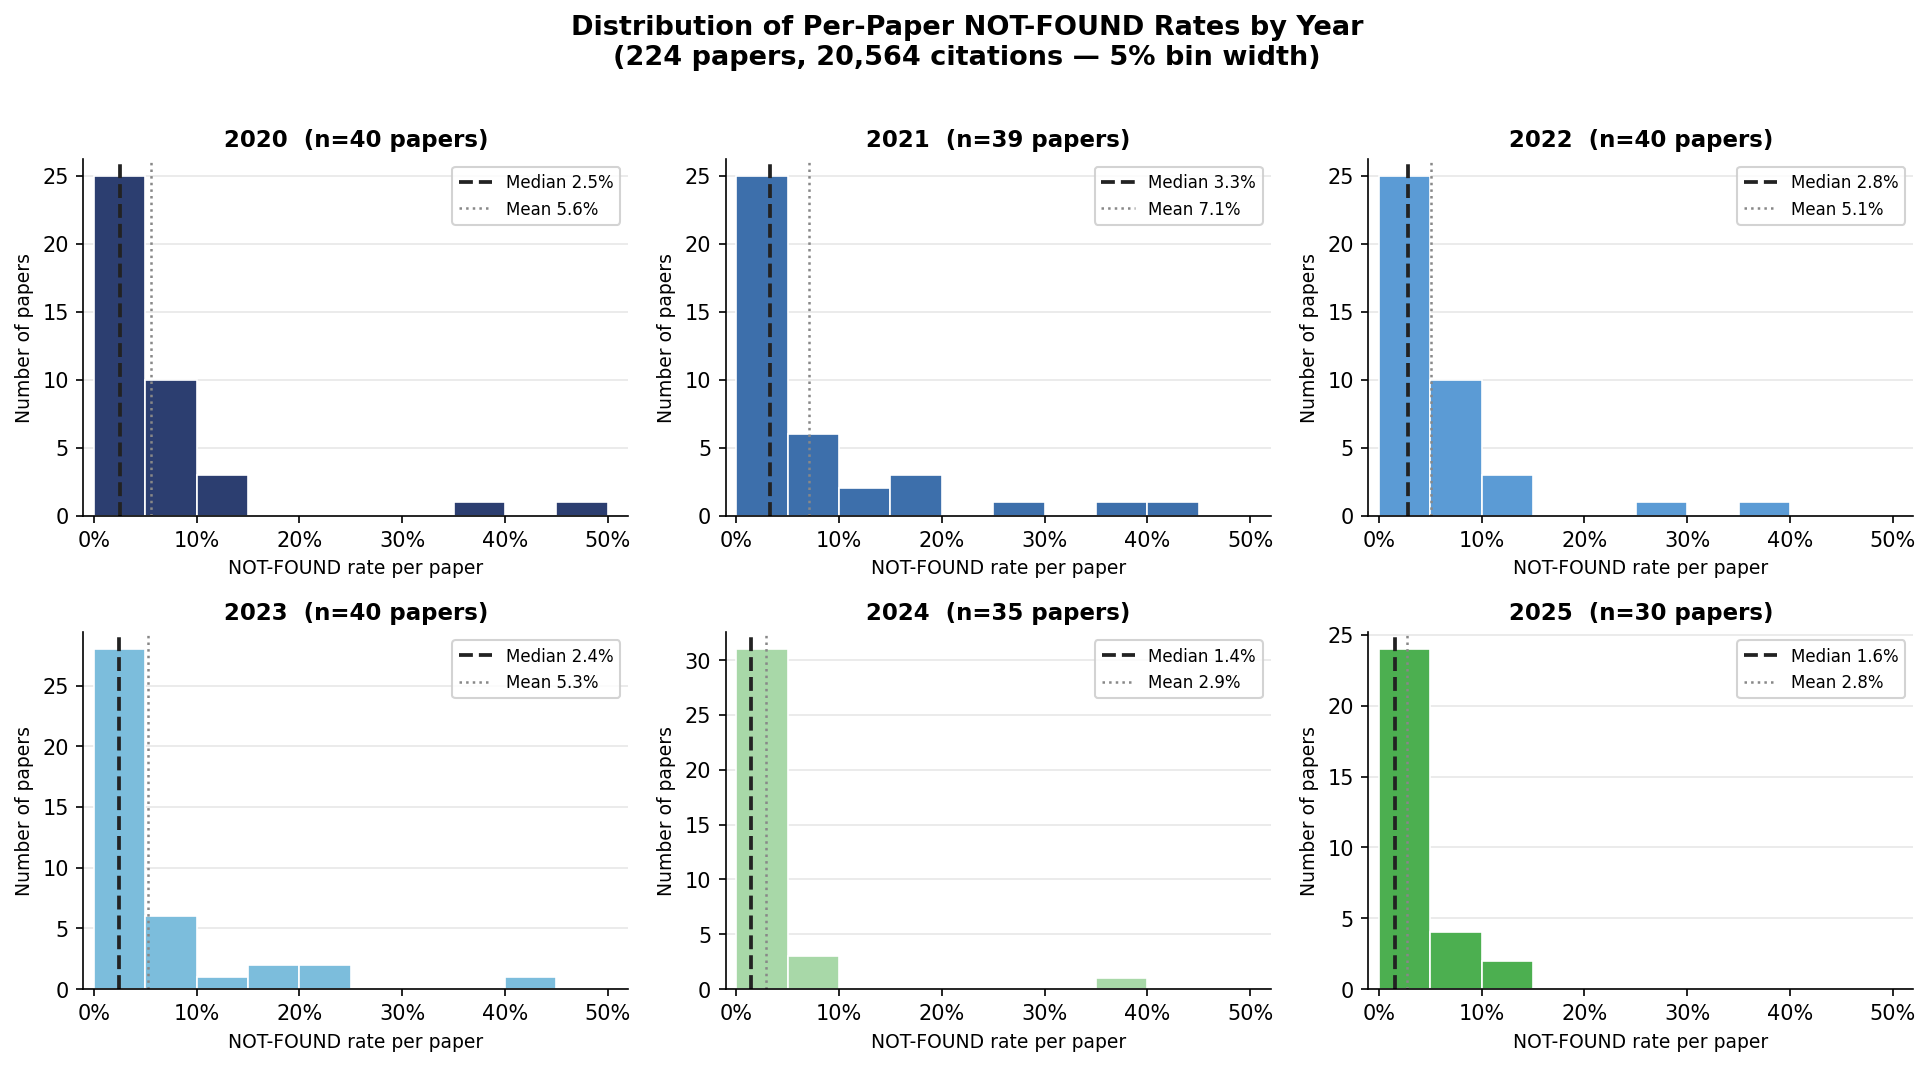
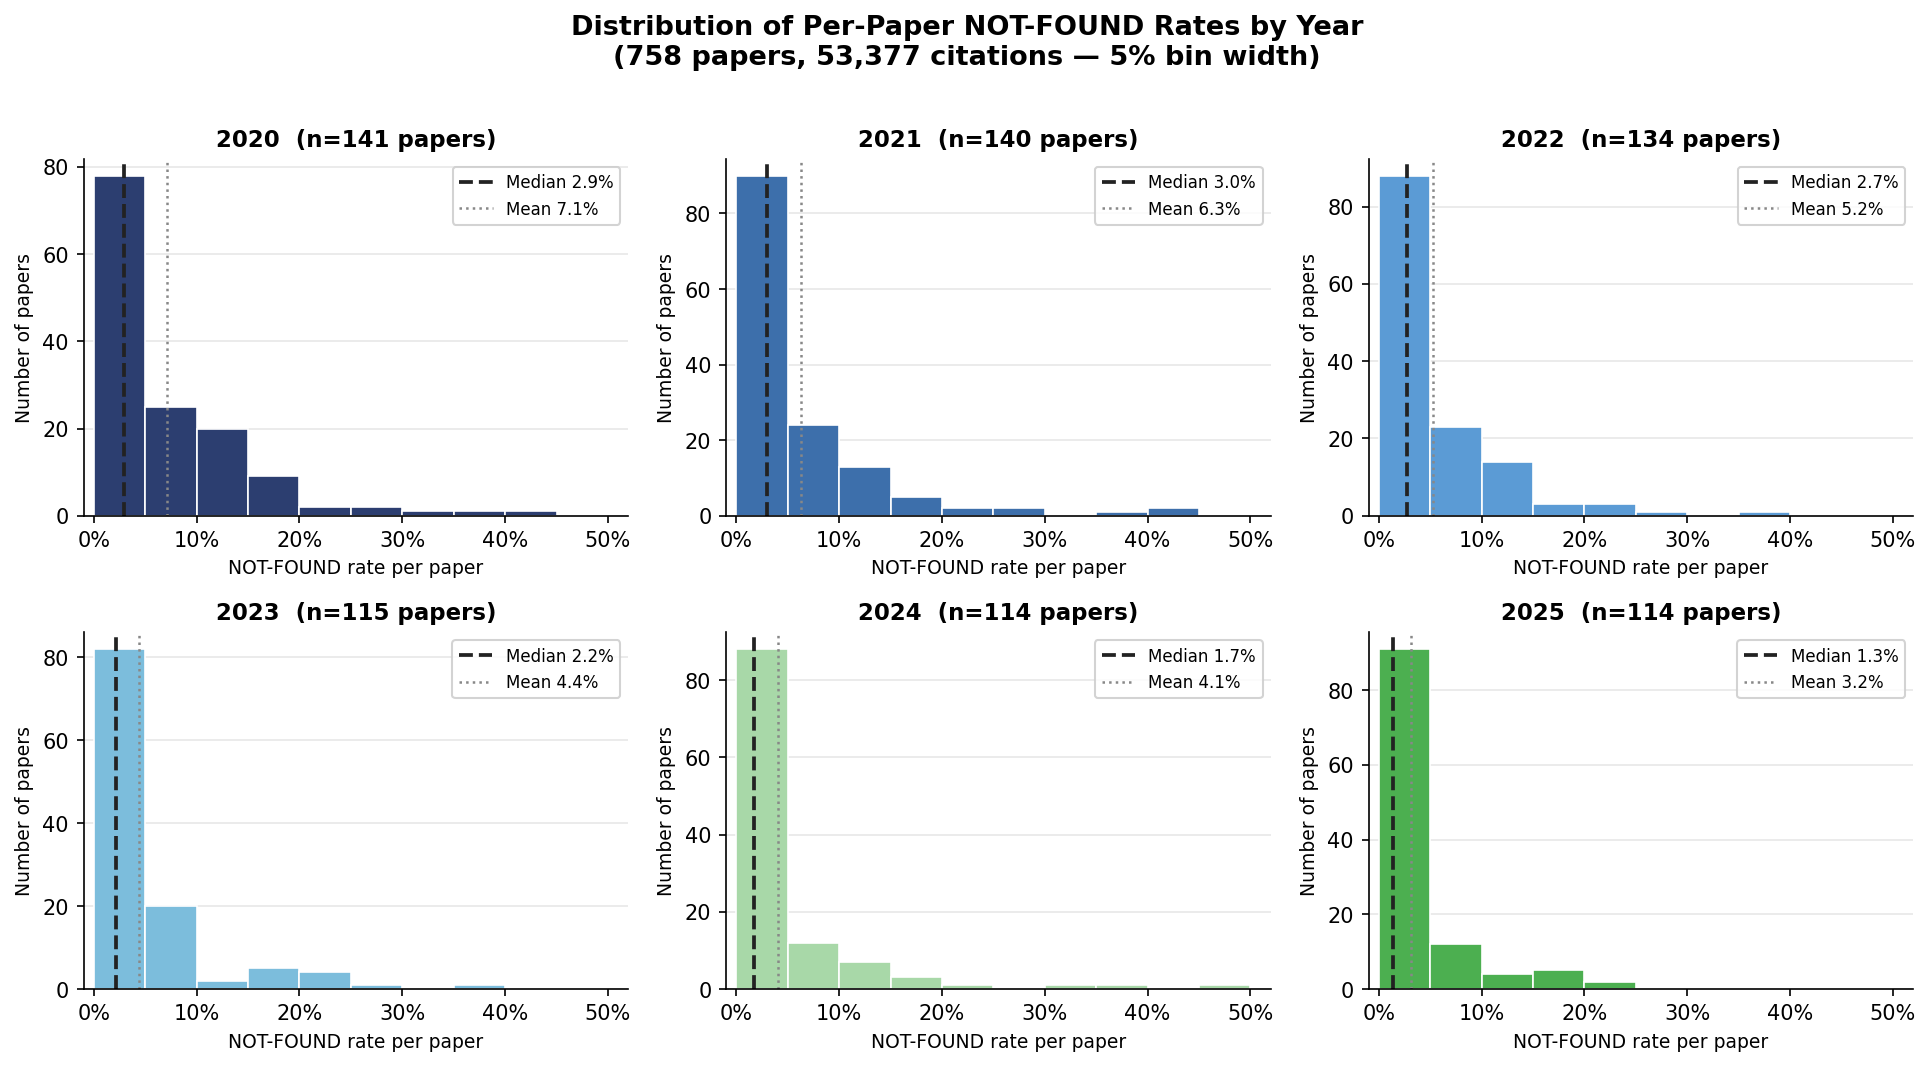
Regen fig6 from full v3 dataset (758 papers vs 224); add make_year_histogram.py
fig6 now shows ~115-141 papers/year instead of 30-40. Updated Section 9
median/mean table with v3 numbers. Added make_year_histogram.py to scripts/.

diff --git a/scripts/make_year_histogram.py b/scripts/make_year_histogram.py
@@ -1,0 +1,85 @@
+#!/usr/bin/env python3
+"""
+make_year_histogram.py — per-year NOT-FOUND rate histograms (fig6).
+
+Reads a batch_verify_years results JSONL and plots the distribution of
+per-paper NOT-FOUND rates for each year in a 2×3 grid.
+
+Usage:
+    python3 make_year_histogram.py [results.jsonl] [--outdir DIR]
+"""
+import argparse, json, pathlib
+import matplotlib
+matplotlib.use("Agg")
+import matplotlib.pyplot as plt
+import matplotlib.ticker as mtick
+import numpy as np
+
+PALETTE = ["#2C3E70", "#3D6FAB", "#5B9BD5", "#7CBDDC", "#A8D8A8", "#4CAF50"]
+
+
+def main():
+    ap = argparse.ArgumentParser(description="Generate per-year histogram (fig6).")
+    ap.add_argument("results", nargs="?",
+                    default="/home/rwang/cross_year_study/results_v3.jsonl",
+                    help="path to results JSONL")
+    ap.add_argument("--outdir", default="/home/rwang/cross_year_study/plots",
+                    help="output directory for PNG files")
+    args = ap.parse_args()
+
+    out = pathlib.Path(args.outdir)
+    out.mkdir(parents=True, exist_ok=True)
+
+    rows = []
+    with open(args.results) as f:
+        for line in f:
+            d = json.loads(line)
+            if d.get("status") == "ok" and d.get("total", 0) > 0:
+                rows.append(d)
+
+    years = sorted({r["year"] for r in rows})
+    year_rates = {
+        y: [100 * r["not_found"] / r["total"] for r in rows if r["year"] == y]
+        for y in years
+    }
+    total_papers = len(rows)
+    total_refs   = sum(r["total"] for r in rows)
+
+    fig, axes = plt.subplots(2, 3, figsize=(13, 7), sharey=False)
+    axes = axes.flatten()
+    bins = np.arange(0, 55, 5)
+
+    for ax, year, color in zip(axes, years, PALETTE):
+        data   = year_rates[year]
+        median = np.median(data)
+        mean   = np.mean(data)
+
+        ax.hist(data, bins=bins, color=color, edgecolor="white", linewidth=0.8, zorder=2)
+        ax.axvline(median, color="#222", linewidth=1.8, linestyle="--",
+                   label=f"Median {median:.1f}%")
+        ax.axvline(mean,   color="#888", linewidth=1.2, linestyle=":",
+                   label=f"Mean {mean:.1f}%")
+
+        ax.set_title(f"{year}  (n={len(data)} papers)", fontsize=11, fontweight="bold")
+        ax.set_xlabel("NOT-FOUND rate per paper", fontsize=9)
+        ax.set_ylabel("Number of papers", fontsize=9)
+        ax.xaxis.set_major_formatter(mtick.PercentFormatter())
+        ax.set_xlim(-1, 52)
+        ax.legend(fontsize=8, framealpha=0.85)
+        ax.grid(axis="y", alpha=0.3)
+        ax.spines[["top", "right"]].set_visible(False)
+
+    fig.suptitle(
+        f"Distribution of Per-Paper NOT-FOUND Rates by Year\n"
+        f"({total_papers:,} papers, {total_refs:,} citations — 5% bin width)",
+        fontsize=13, fontweight="bold", y=1.01,
+    )
+    plt.tight_layout()
+    dest = out / "fig6_histogram.png"
+    plt.savefig(dest, dpi=150, bbox_inches="tight")
+    plt.close()
+    print(f"Saved {dest}  ({total_papers} papers)")
+
+
+if __name__ == "__main__":
+    main()

diff --git a/citation_verification_report.md b/citation_verification_report.md
@@ -647,14 +647,14 @@ Breaking down the aggregate rates into per-paper distributions reveals an import
 
 | Year | Median | Mean | Gap (mean−median) |
 |------|-------:|-----:|------------------:|
-| 2020 | 2.5% | 5.6% | +3.1 pp |
-| 2021 | 3.3% | 7.1% | +3.8 pp |
-| 2022 | 2.8% | 5.1% | +2.3 pp |
-| 2023 | 2.4% | 5.3% | +2.9 pp |
-| 2024 | 1.4% | 2.9% | +1.5 pp |
-| 2025 | 1.6% | 2.8% | +1.2 pp |
+| 2020 | 2.9% | 7.1% | +4.2 pp |
+| 2021 | 3.0% | 6.3% | +3.3 pp |
+| 2022 | 2.7% | 5.2% | +2.5 pp |
+| 2023 | 2.2% | 4.4% | +2.2 pp |
+| 2024 | 1.7% | 4.1% | +2.4 pp |
+| 2025 | 1.3% | 3.2% | +1.8 pp |
 
-The mean-median gap narrows sharply in 2024–2025, indicating that both the typical paper and the outlier tail are improving — not just the centre. By 2024–2025 the histogram is nearly L-shaped: almost no papers exceed 10% NOT-FOUND, and the bulk sit in the 0–5% bin.
+The mean-median gap narrows from 2020–2023, then stabilises in 2024–2025, indicating that both the typical paper and the outlier tail are improving. By 2024–2025 the histogram is nearly L-shaped: almost no papers exceed 20% NOT-FOUND, and the bulk sit in the 0–5% bin.
 
 **Notable outliers (NOT-FOUND > 15%)** identified in the strip plot include:
 - `10.1109/access.2020.2967218` — IEEE Access 2020, **47.3%** (53/112): likely a survey paper citing obscure conference proceedings not yet indexed
